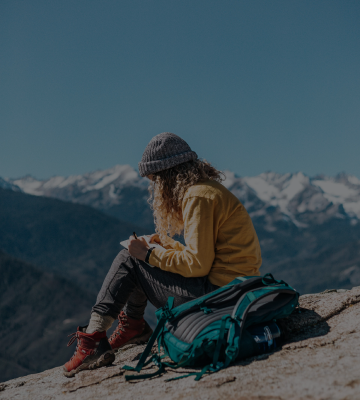
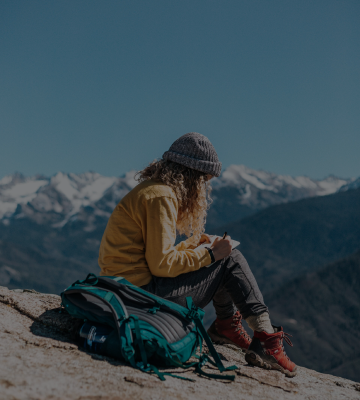
feat(blog): init tokyo section

diff --git a/blog.html b/blog.html
@@ -42,5 +42,21 @@
             </div>
         </div>
     </section>
+
+    <section class="tokyo">
+        <div class="section-text">
+            <h2>Tokyo</h2>
+            <hr>
+
+            <div class="tokyo-cards">
+                <article class="cards tokyo">
+                    <header>
+                        <h3>Chegada</h3>
+                        <p>Nossa viagem começou no Aeroporto Internacional de Narita, localizado a cerca de 60 km de Tóquio. Após desembarcar e fazer todos os procedimentos de imigração, fomos recebidos pela equipe da Jornada Viagens, que nos conduziu até o nosso hotel.</p>
+                    </header>
+                </article>
+            </div>
+        </div>
+    </section>
 </body>
 </html>
